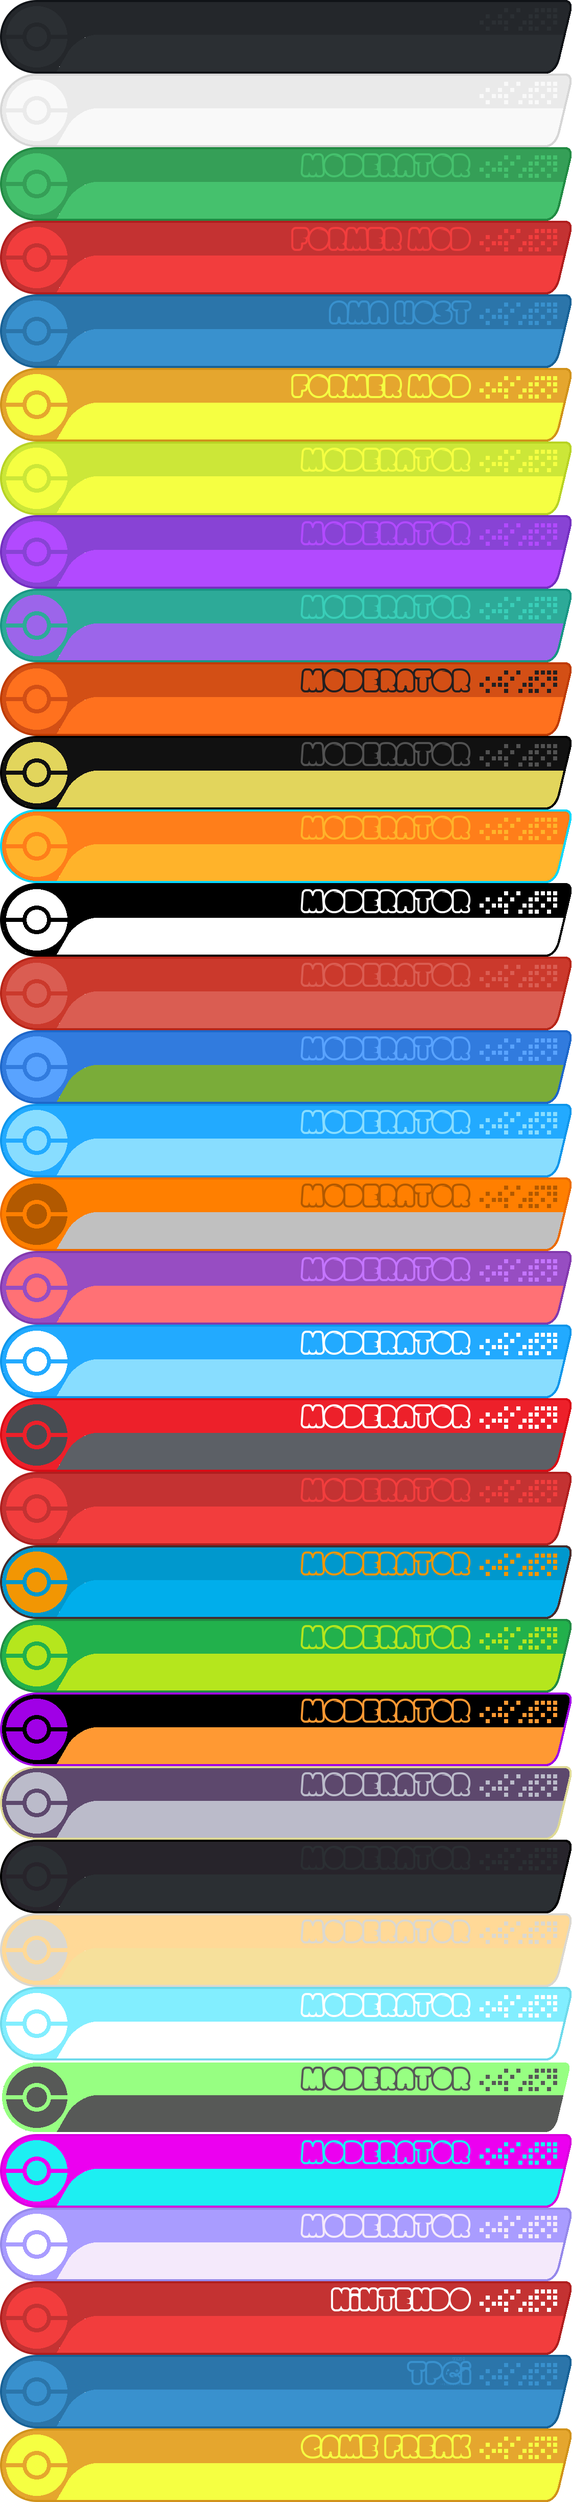
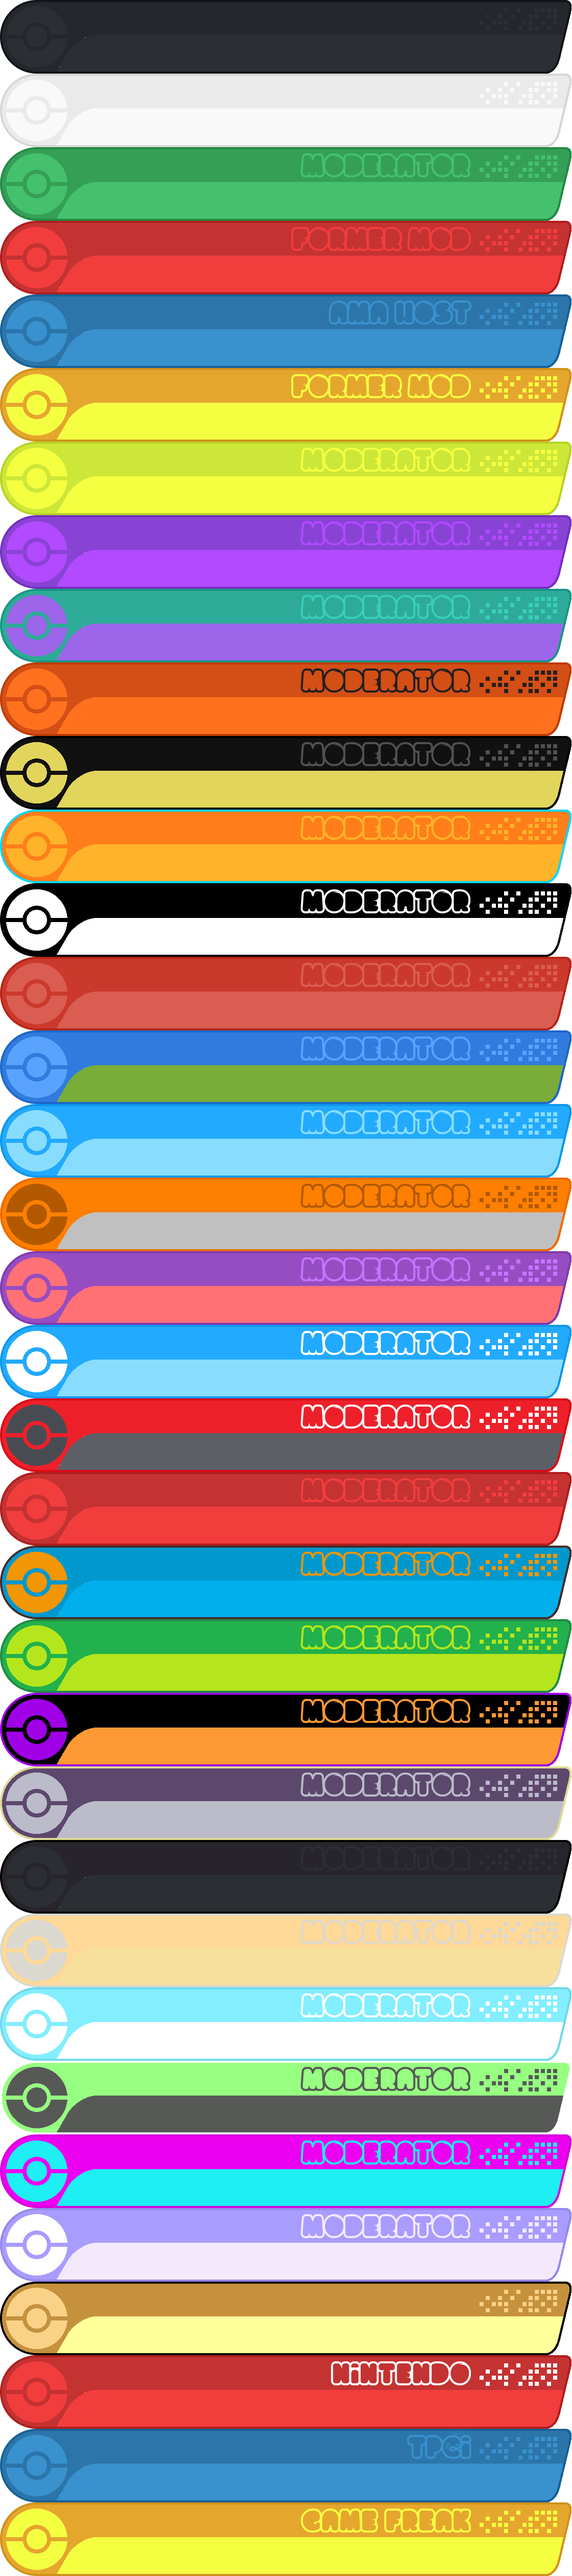
Add nameplate for sloth

diff --git a/src/nameplate.css b/src/nameplate.css
@@ -265,6 +265,13 @@ The order of everything in this file is very important:
 	background: 0 -1080px;
 }
 
+/* Sloth
+--------------------------------------------------------------------------------*/
+.author[href$="/bigslothonmyface"], html body .author[href$="/bigslothonmyface"]:not(.moderator) {
+    background: 0 -1116px;
+    color: #fff!important
+}
+
 /********************************************************************************
 * FORCE DARK FLAIR TEXT
 *********************************************************************************/

diff --git a/images/FlairBG/generate.py b/images/FlairBG/generate.py
@@ -234,6 +234,15 @@ flairs = [
         "text": "Moderator"
     },
 
+    {
+        # sloth
+        "top_section": (197, 145, 61),
+        "bottom_section": (255, 255, 156),
+        "poke_ball": (249, 210, 135),
+        "top_squares": (249, 210, 135),
+        "shape_border": (0, 0, 0)
+    },
+    
     # - OTHER FLAIRS
     {   # Nintendo
         "top_section": (196, 50, 50),
